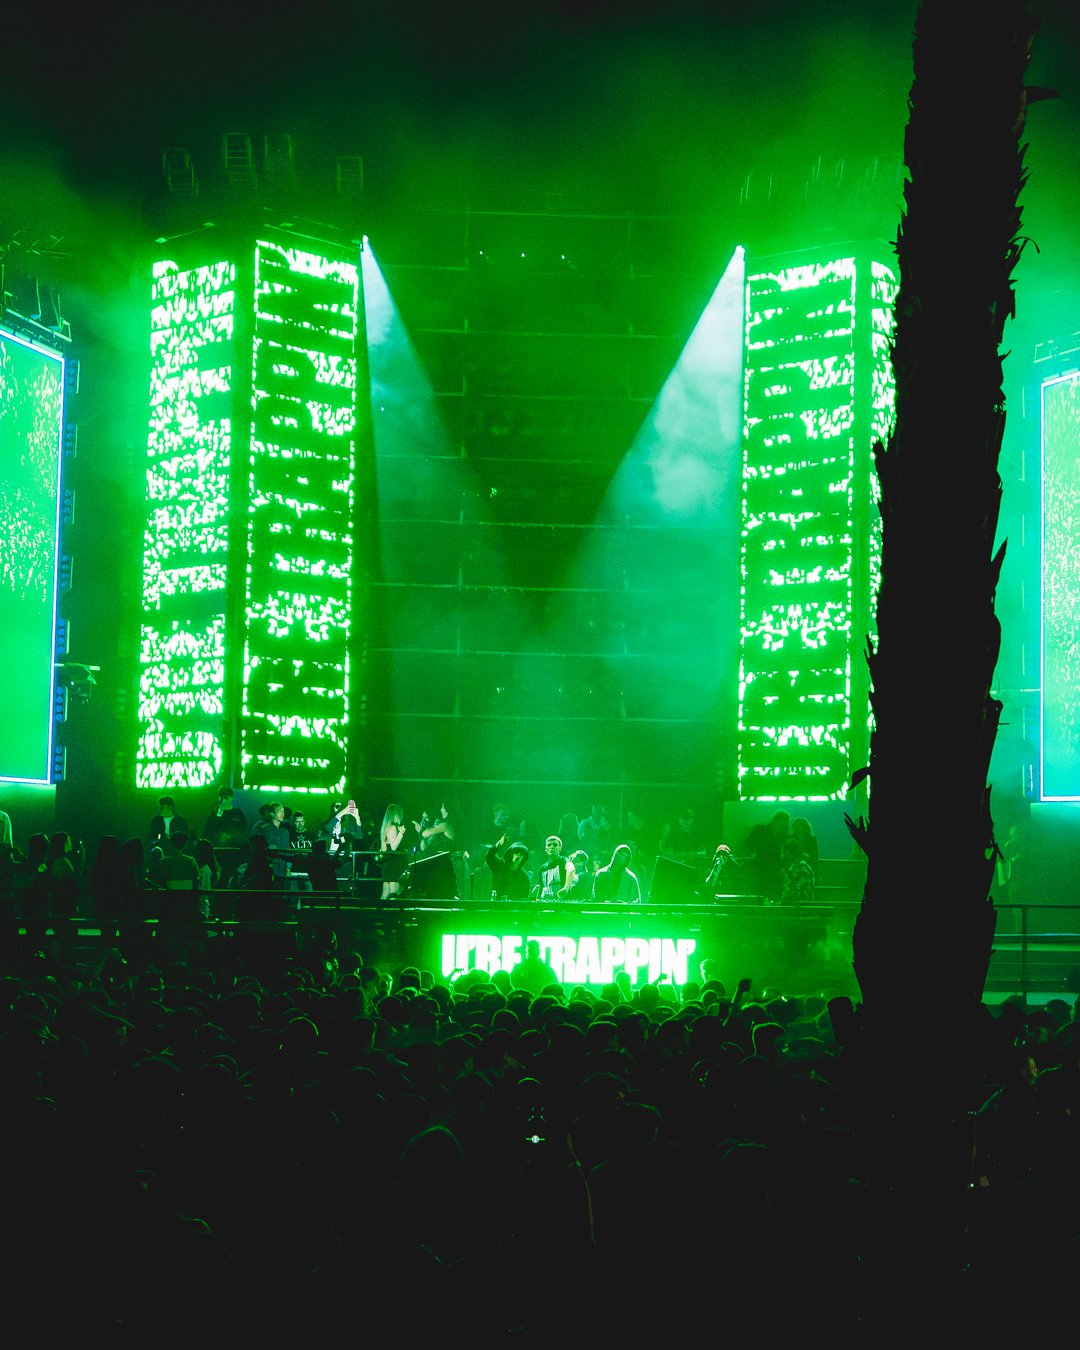
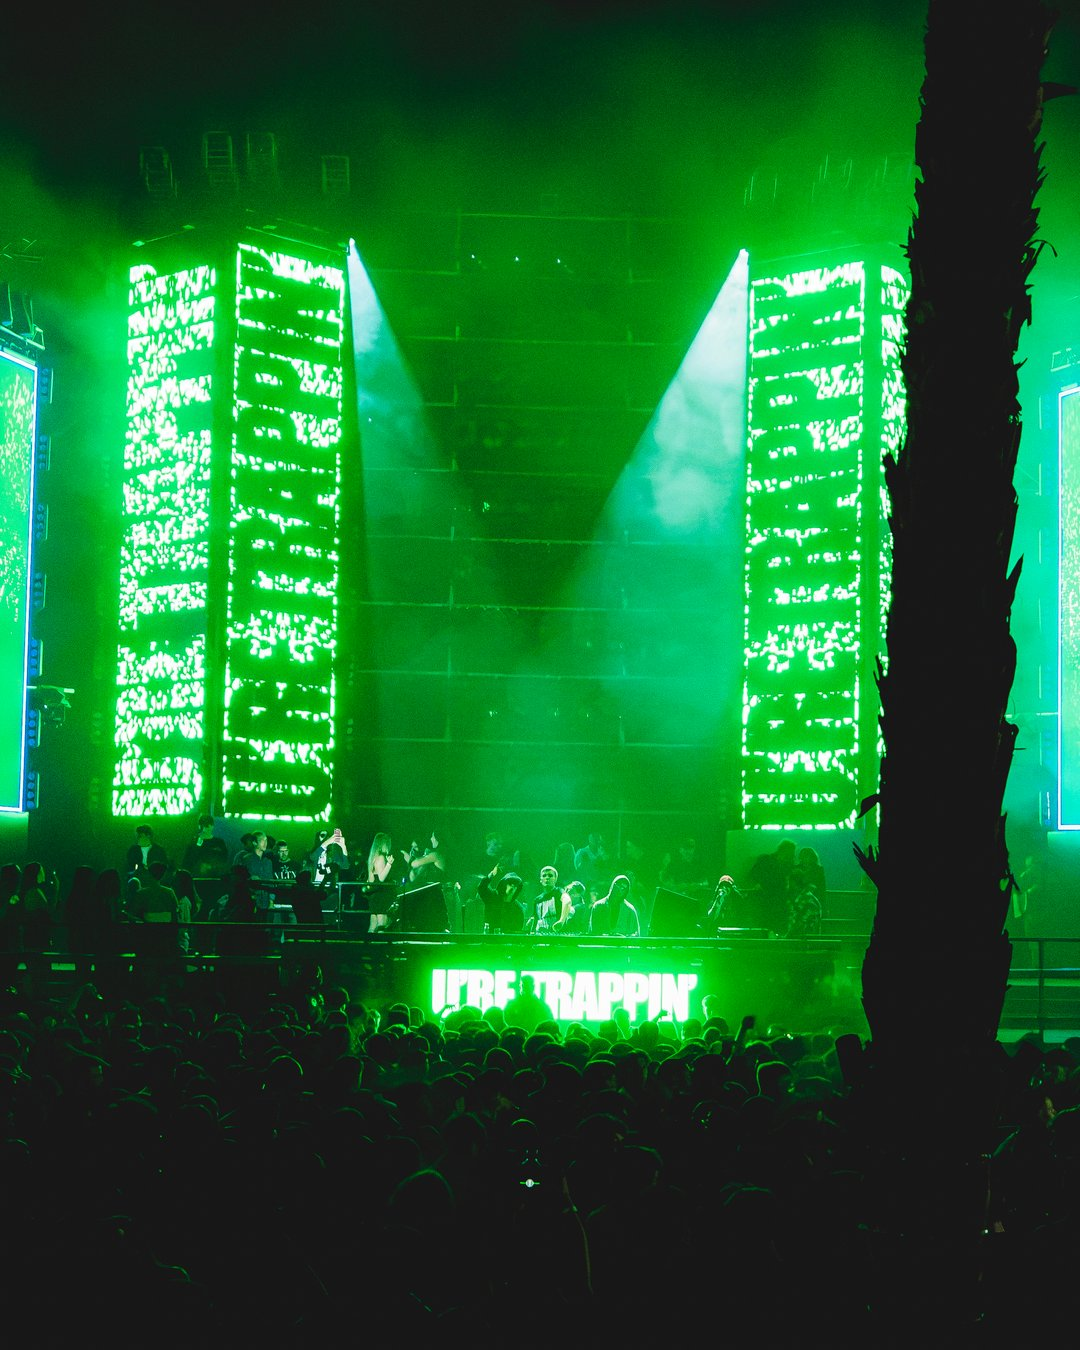
v.4.7
- Fix pre-fill Google Form: la taglia XL nel form si chiama "XL (solo
  per T-Shirt)", non solo "XL" — senza la mappa in COD_TAGLIA_LABELS
  il pre-fill falliva in silenzio per quella taglia
- T-Shirt Nera taglia M di nuovo disponibile (rimossa da soldOutSizes)
- Teaser gallery (home): foto sostituite di nuovo, ricompresse
  (correzione colore + resize), backup dei grezzi su Desktop

Claude-Session: https://claude.ai/code/session_01PZiMLFYckXw7UMLTxPf5J3

diff --git a/js/product.js b/js/product.js
@@ -47,6 +47,13 @@ const COD_ENTRY_TAGLIA = 'entry.1313420110';
 // Testo esatto dell'opzione "Taglia" per i prodotti senza taglie
 // (Balaclava, Mesh Cap) — deve combaciare con l'opzione nel form.
 const COD_TAGLIA_STANDARD = 'Standard (Balaclava o Mesh Cap)';
+// Taglie il cui testo nel form NON è la sigla nuda (product.sizes usa
+// solo "XL", ma l'opzione nel form si chiama "XL (solo per T-Shirt)")
+// — senza questa mappa il pre-fill fallisce in silenzio perché il
+// valore non combacia esattamente con nessuna opzione.
+const COD_TAGLIA_LABELS = {
+  XL: 'XL (solo per T-Shirt)'
+};
 
 /**
  * Link al Google Form già compilato con il capo (e la taglia, se il
@@ -54,7 +61,9 @@ const COD_TAGLIA_STANDARD = 'Standard (Balaclava o Mesh Cap)';
  * sa subito cosa spedire, senza doverlo ricavare da un campo libero.
  */
 function buildCodFormUrl(product, size){
-  const taglia = (product.sizes && product.sizes.length) ? size : COD_TAGLIA_STANDARD;
+  const taglia = (product.sizes && product.sizes.length)
+    ? (COD_TAGLIA_LABELS[size] || size)
+    : COD_TAGLIA_STANDARD;
   const params = new URLSearchParams({ usp: 'pp_url' });
   params.set(COD_ENTRY_CAPO, product.codLabel);
   params.set(COD_ENTRY_TAGLIA, taglia);
